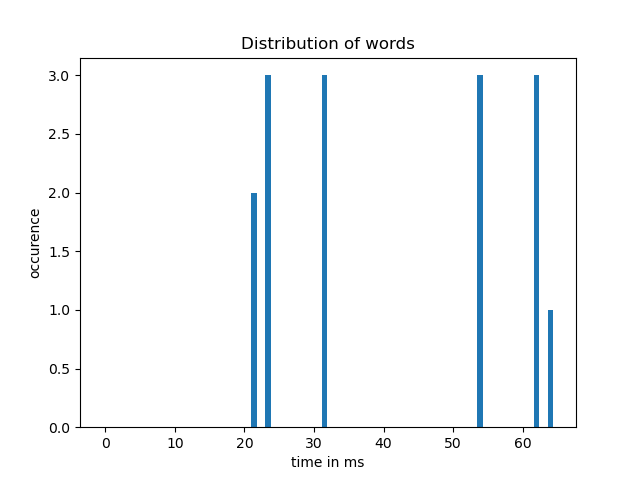
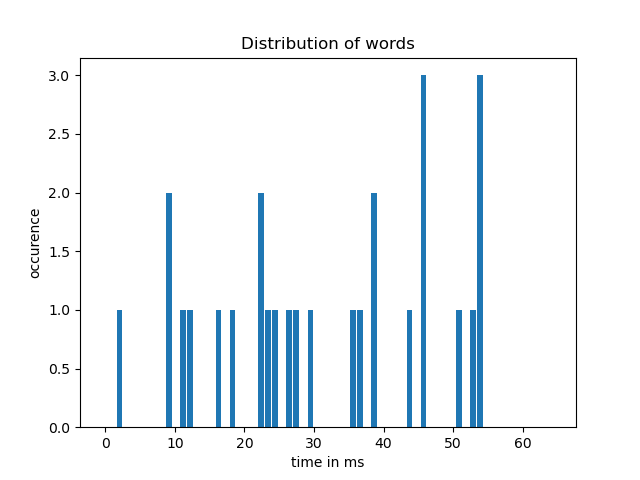
Appliance on real data And its succesfull

diff --git a/train_lib_final.py b/train_lib_final.py
@@ -144,7 +144,7 @@ def memorize_MIT_data(data_list: list, T_or_T: str):
     data_dic = {}
     for name in data_list:
         if name == 'ECG':
-            data_dic['ECG'] = data/10000 # scaling to under order of 10
+            data_dic['ECG'] = data/100 # scaling to under order of 10
         if name == 'Tacho':
             data_dic['Tacho'] = peaks
         if name in ["symbolsC", "words", 
@@ -312,7 +312,7 @@ def constr_feat(data, NAME, length_item):
             
             if key == 'ECG': # check if feature is ECG timeseries
                 seq = data[key][:, int(lag[4:]) : length_item + int(lag[4:])]
-                seq *= 100 # min-max scaling by hand
+                # seq *= 100 # min-max scaling by hand
                 dic_seq[key+lag] = seq               
                 continue
             
@@ -325,7 +325,7 @@ def constr_feat(data, NAME, length_item):
                 bc = data[key][:, int(lag[4:]) : length_item + int(lag[4:])]
                 bc = bc==3 # binary categorizing of r-peaks
                 rp = np.argwhere(bc>0) # position of r-peaks in samples of all examples
-                ds_samplerate = int(2**2) # int(2**7) # Ziel samplerate beim Downsampling
+                ds_samplerate = int(2**1) # int(2**7) # Ziel samplerate beim Downsampling
                 ratio = samplerate / ds_samplerate # quotient between both samplerates
                 Tacho = np.zeros((len(bc[:,0]), int(length_item / ratio))) # empty array to contain Tachogram
                 for n in range(len(bc[:,0])): # loop over all examples
@@ -355,7 +355,7 @@ def constr_feat(data, NAME, length_item):
                     symbols, words, BBI_list = cut_BBI(data[key], lag_current, length_item)
                 
                 # Upsampling to length_item / ds_ratio
-                ds_samplerate = int(2**2) # Ziel samplerate beim Downsampling
+                ds_samplerate = int(2**1) # Ziel samplerate beim Downsampling
                 ds = int(samplerate/ds_samplerate) # downsampling ratio
                 sym_up = np.full((len(symbols), int(length_item/ds)), int(10)) # array of 10s. After Upsampling no 10s expected
                 for example in range(len(BBI_list)): # extract BBI of example in ms
@@ -910,9 +910,9 @@ def setup_Conv_Att_E(input_shape, size, samplerate):
     # our input layer
     Input_encoder = Input(shape=input_shape)  # np.shape(X)[1:]
     # downsampling step of 2 is recommended. This way a higher resolution is maintained in the encoder
-    ds_step =  int(2**4)# factor of down- and upsampling of ecg timeseries
-    ds_samplerate = int(2**2) # Ziel samplerate beim Downsampling
-    orig_a_f = int(2**4) # first filter amount. low amount of filters ensures faster learning and training
+    ds_step =  int(2**3)# factor of down- and upsampling of ecg timeseries
+    ds_samplerate = int(2**1) # Ziel samplerate beim Downsampling
+    orig_a_f = int(2**3) # first filter amount. low amount of filters ensures faster learning and training
     amount_filter = orig_a_f
     encoder = Conv1D(amount_filter, # number of columns in output. filters
                      samplerate*2, # kernel size. We look at 2s snippets
@@ -942,11 +942,11 @@ def setup_Conv_Att_E(input_shape, size, samplerate):
         length = length/ds_step
         print("Downsampled to: ", int(samplerate/k), " Hz")
     
-    # pred = attention_lib.Encoder(num_layers=1, d_model=amount_filter, length=length, num_heads=10, dff=length)(encoder, w_2=1)
+    pred = attention_lib.Encoder(num_layers=1, d_model=amount_filter, length=length, num_heads=10, dff=length)(encoder, w_2=0)
     # pred = attention_lib.Encoder(num_layers=1, d_model=amount_filter, length=length, num_heads=10, dff=length)(pred, w_2=2)
     # pred = attention_lib.Encoder(num_layers=1, d_model=amount_filter, length=length, num_heads=10, dff=length)(pred, w_2=4)
     # pred = attention_lib.PositionalEmbedding(d_model=amount_filter, length=length)(encoder)
-    # pred = attention_lib.EncoderLayer(d_model=amount_filter, num_heads=2, dff=length)(pred)
+    # pred = attention_lib.EncoderLayer(d_model=amount_filter, num_heads=10, dff=length)(pred)
     # pred = attention_lib.FeedForward(d_model=amount_filter, dff=length)(encoder)
     
     # pred = MaxPooling1D(16)(pred)
@@ -959,13 +959,13 @@ def setup_Conv_Att_E(input_shape, size, samplerate):
     for x in range(len(out_types)):
         length = core_length
         if 'regressionTacho' in out_types[x]: # Tachogram regression output
-            branch_dic["branch{0}".format(x)] = attention_lib.PositionalEmbedding(d_model=amount_filter, length=length)(encoder)
+            branch_dic["branch{0}".format(x)] = attention_lib.PositionalEmbedding(d_model=amount_filter, length=length)(pred)
             branch_dic["branch{0}".format(x)] = attention_lib.EncoderLayer(d_model=amount_filter, num_heads=10, dff=length)(branch_dic["branch{0}".format(x)])
             # branch_dic["branch{0}".format(x)] = Dense(4)(branch_dic["branch{0}".format(x)])
             # branch_dic["branch{0}".format(x)] = K.layers.Flatten()(branch_dic["branch{0}".format(x)])
             # branch_dic["branch{0}".format(x)] = attention_lib.FeedForward(d_model=amount_filter, dff=length)(pred)
             # branch_dic["branch{0}".format(x)] = AveragePooling1D(2)(branch_dic["branch{0}".format(x)])
-            # branch_dic["branch{0}".format(x)] = UpSampling1D(4)(branch_dic["branch{0}".format(x)])
+            # branch_dic["branch{0}".format(x)] = UpSampling1D(2)(branch_dic["branch{0}".format(x)])
             # length = length/2
             # branch_dic["branch{0}".format(x)] = LSTM(size, return_sequences=True)(pred)
             # branch_dic["branch{0}".format(x)] = pos_encoder(pred)
@@ -982,8 +982,8 @@ def setup_Conv_Att_E(input_shape, size, samplerate):
             branch_dic["branch{0}".format(x)] = attention_lib.PositionalEmbedding(d_model=amount_filter, length=length)(pred)
             branch_dic["branch{0}".format(x)] = attention_lib.EncoderLayer(d_model=amount_filter, num_heads=10, dff=length)(branch_dic["branch{0}".format(x)])
             # branch_dic["branch{0}".format(x)] = attention_lib.FeedForward(d_model=amount_filter, dff=length)(pred)
-            branch_dic["branch{0}".format(x)] = AveragePooling1D(2)(branch_dic["branch{0}".format(x)])
-            length = length/2
+            # branch_dic["branch{0}".format(x)] = AveragePooling1D(2)(branch_dic["branch{0}".format(x)])
+            # length = length/2
             # branch_dic["branch{0}".format(x)] = LSTM(size, return_sequences=True)(pred)
             # branch_dic["branch{0}".format(x)] = pos_encoder(pred)
             # branch_dic["branch{0}".format(x)] = MultiHeadAttention(num_heads=4,key_dim=size)(pred, pred)

diff --git a/train_final.py b/train_final.py
@@ -57,11 +57,11 @@ def train(total_epochs=250,
         # Extracting dataset from h5 into numpy array
         data_list = list(OUTPUT_name.keys()) + list(INPUT_name.keys()) # list of mentioned datasets
         data_list = tl.unique(data_list) # sorts out multiple occurences
-        data, samplerate = tl.memorize("./data/training.h5", data_list)
+        # data, samplerate = tl.memorize("./data/training.h5", data_list)
         # data, samplerate = tl.memorize_MIT_data(data_list, 'training')
-        # amount = 10 # number of training patients
-        # data, data_test, samplerate = tl.Icentia_memorize(amount, length_item, data_list)
-        # mlflow.log_param("number of training examples", amount)
+        amount = 1000 # number of training patients
+        data, data_test, samplerate = tl.Icentia_memorize(amount, length_item, data_list)
+        mlflow.log_param("number of training examples", amount)
         # exit()
         
         # readjust length_item according to samplerate
@@ -76,10 +76,10 @@ def train(total_epochs=250,
         # exit()
         print("\nMemorize test data ...")
         # Extracting dataset from h5 into numpy array
-        data, samplerate = tl.memorize("./data/test.h5", data_list)
+        # data, samplerate = tl.memorize("./data/test.h5", data_list)
         # data, samplerate = tl.memorize_MIT_data(data_list, 'test')
-        # del data
-        # data = data_test
+        del data
+        data = data_test
         print("Constructing test data ...")
         # Extracting items from whole dataset
         X_test, y_test, out_types = tl.set_items(data, INPUT_name, OUTPUT_name, length_item)
@@ -138,7 +138,8 @@ def train(total_epochs=250,
         #                 "ECG_output": 'MAE',
         #                 }
         # Callback
-        escb = EarlyStopping(monitor='MAE', patience=min(int(total_epochs/5),50), min_delta=0.005, mode="min") # 'Tacho_output_MAE' 'ECG_output_MAE' 'binary_accuracy'
+        # escb = EarlyStopping(monitor='MAE', patience=min(int(total_epochs/5),50), min_delta=0.005, mode="min") # 'Tacho_output_MAE' 'ECG_output_MAE' 'binary_accuracy'
+        escb = EarlyStopping(monitor='sparse_categorical_accuracy', patience=min(int(total_epochs/5),50), min_delta=0.001, mode="max", restore_best_weights=True) # Symbols_output_
         # escb = EarlyStopping(monitor='Symbols_output_sparse_categorical_accuracy', patience=min(int(total_epochs/5),50), min_delta=0.001, mode="max", restore_best_weights=True) # Symbols_output_
         
         # Train model on training set

diff --git a/laboratory.py b/laboratory.py
@@ -13,7 +13,7 @@ from train_final import train
 
 
 # Set experiment active or create new one
-experiment = mlflow.set_experiment("Models for Forschungsbeleg - Tacho - SYNECG") # Conv-AE-LSTM-P good
+experiment = mlflow.set_experiment("Attention tests - Symbol - Icentia") # Conv-AE-LSTM-P good
 print("Experiment_id: {}".format(experiment.experiment_id))
 
 # Starting a Run by calling train.py
@@ -28,10 +28,10 @@ print("Experiment_id: {}".format(experiment.experiment_id))
 # length_item: number of data points in items
 
 train(NNsize=int(2**3), 
-      total_epochs=200, 
-      length_item= 8,# 2**6, # Minimum 4 seconds. Because calc_symbols needs at leat 2 beats. in seconds
+      total_epochs=400, 
+      length_item= 32,# 2**6, # Minimum 4 seconds. Because calc_symbols needs at leat 2 beats. in seconds
       # INPUT_name = {"symbols": ["lag 0"]},
-      OUTPUT_name = {'Tacho': ["lag 0"]}, #, 'symbolsC': ["lag 0"]}, # 'parametersTacho': ["lag 0"]},# 'symbolsC': ["lag 0"], "words": ["lag 0"]}, "ECG": ["lag 0"], 'Tacho': ["lag 0"]
+      OUTPUT_name = {'symbolsC': ["lag 0"]}, # 'parametersTacho': ["lag 0"]},# 'symbolsC': ["lag 0"], "words": ["lag 0"]}, "ECG": ["lag 0"], 'Tacho': ["lag 0"]
       Arch = "Conv_Att_E")# "Conv_E_LSTM_Att_P") #"Conv-AE-LSTM-P")# "maxKomp-Conv-AE-LSTM-P")# 
 
 # for N in range(16,18,1):

diff --git a/Icentia11k_reader.py b/Icentia11k_reader.py
@@ -345,7 +345,7 @@ def load_clean_data(list_training, length_item):
     data_up = np.zeros((len(data[:,0]), int(length_item / ratio))) # empty array to contain ecg upsampled 
     for n in range(np.shape(data)[0]):
         data_up[n,:] = np.interp(list(range(len(data_up[n,:]))), list(range(len(data[n,:]))), data[n,:]) # position r-peaks and interpolate Tachogram. x-axis in samples    
-        data_up[n,:] /= max(data_up[n,:])
+        data_up[n,:] /= np.max(data_up[n,:]) # normalize ecg to 1
     
     # Upsampling to 256Hz with doubling 6 samples every second randomly with value zero
     peaks = np.array(train_beats)
